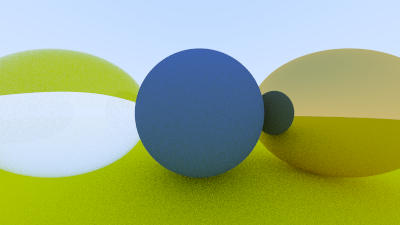
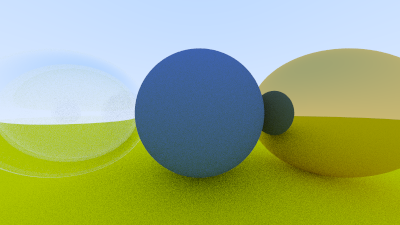
Replace left sphere with a hollow glass sphere

Changed region(s): [[0.0, 0.5289, 0.36, 0.8089], [0.0, 0.2178, 0.36, 0.4667]]

diff --git a/src/Main.cpp b/src/Main.cpp
@@ -61,11 +61,13 @@ HittableList createWorld() {
   auto groundSphere = std::make_shared<Sphere>(Vec3{0, -100.5, -1}, 100, groundMat);
   auto centerSphere = std::make_shared<Sphere>(Vec3{0, 0, -1}, 0.5, centerMat);
   auto leftSphere = std::make_shared<Sphere>(Vec3{-1, 0, -1}, 0.5, leftMat);
+  auto leftInnerSphere = std::make_shared<Sphere>(Vec3{-1, 0, -1}, -0.4, leftMat);
   auto rightSphere = std::make_shared<Sphere>(Vec3{1, 0, -1}, 0.5, rightMat);
 
   world.add(groundSphere);
   world.add(centerSphere);
   world.add(leftSphere);
+  world.add(leftInnerSphere);
   world.add(rightSphere);
 
   return world;
